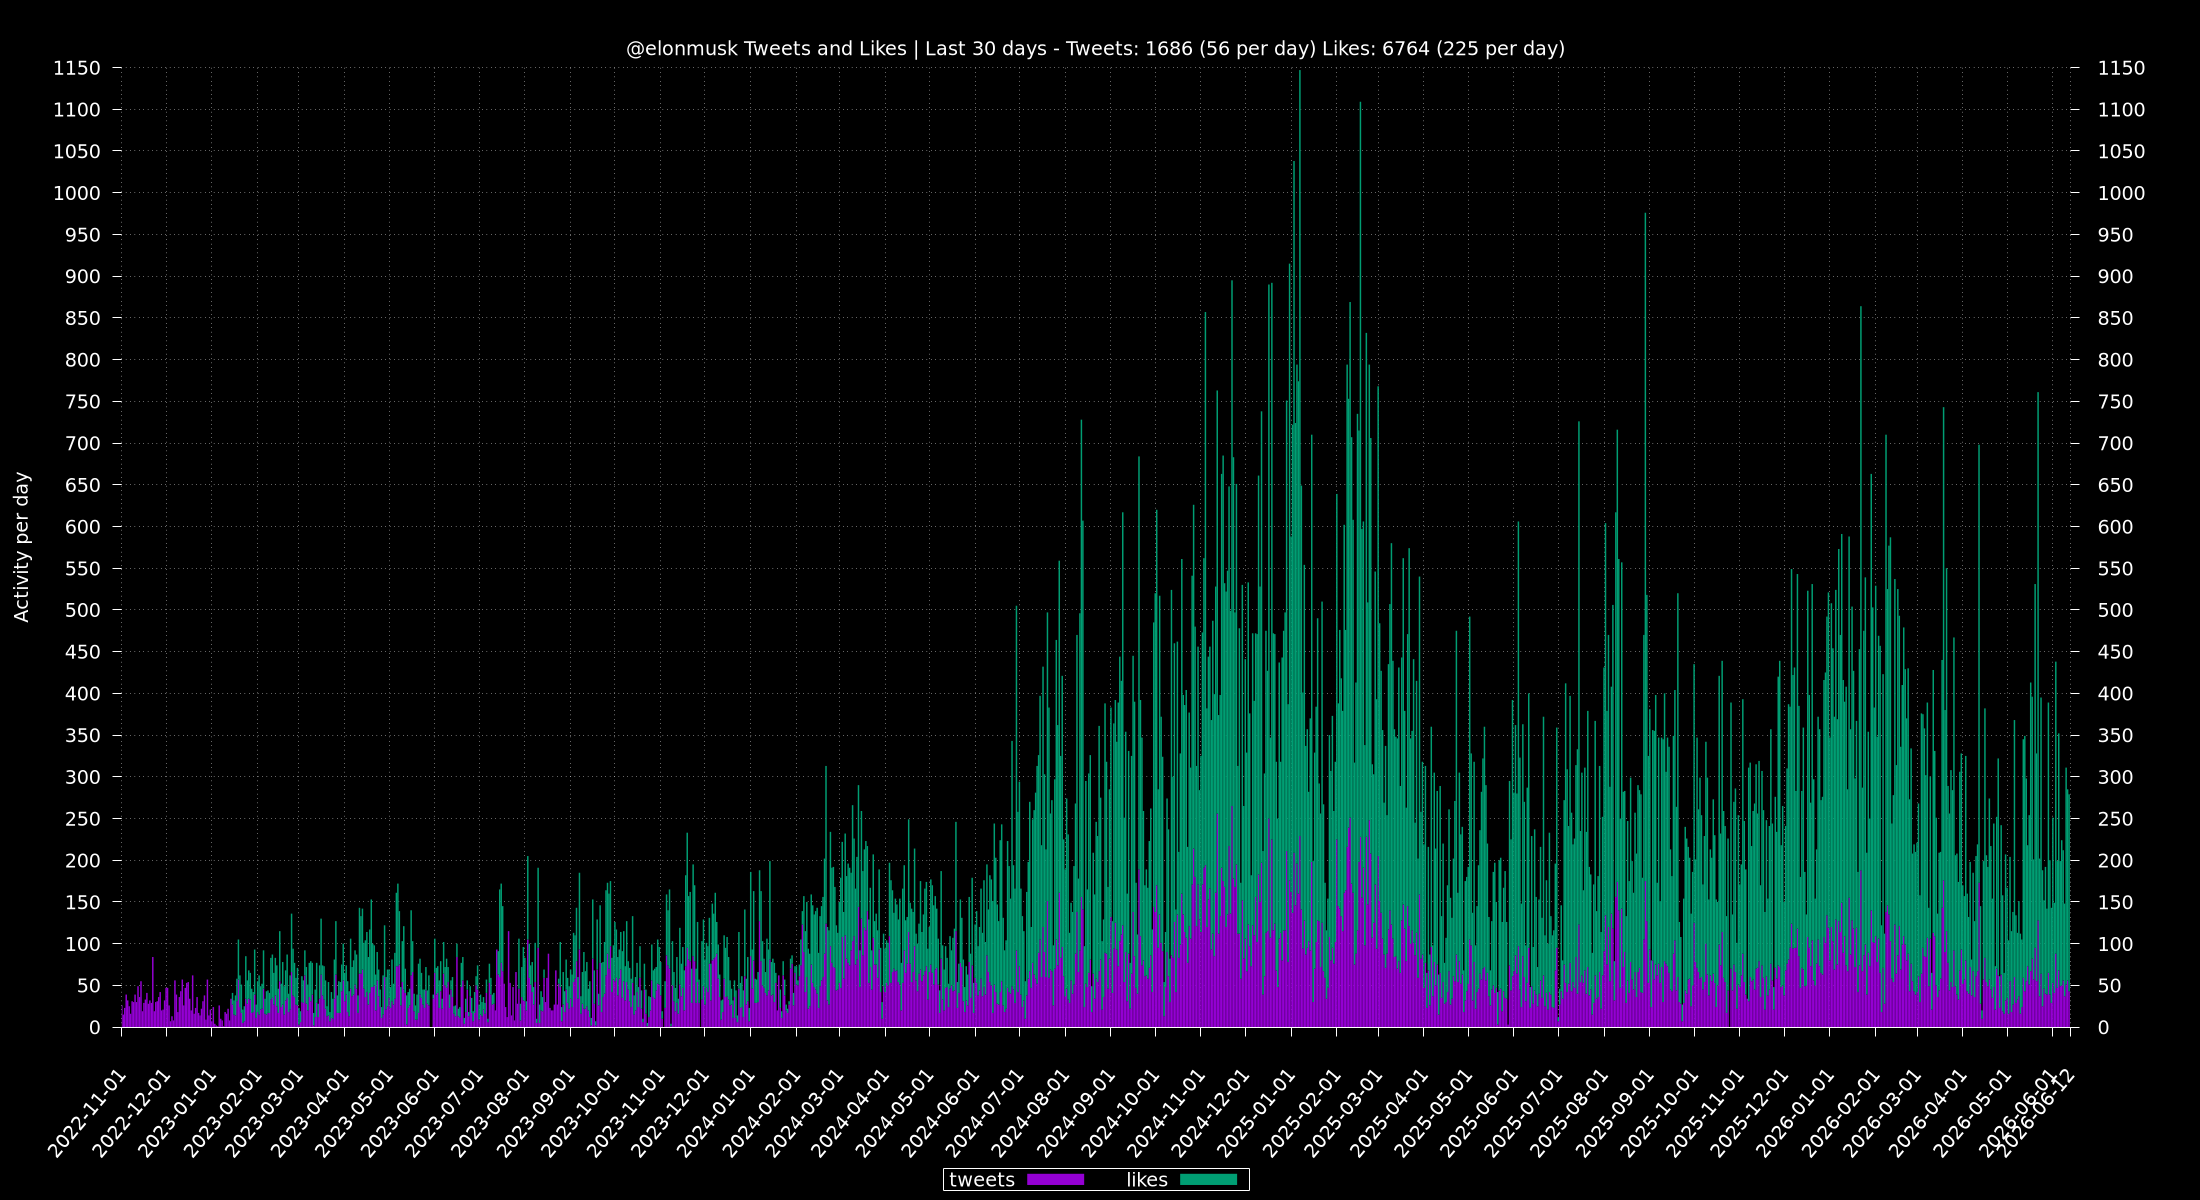
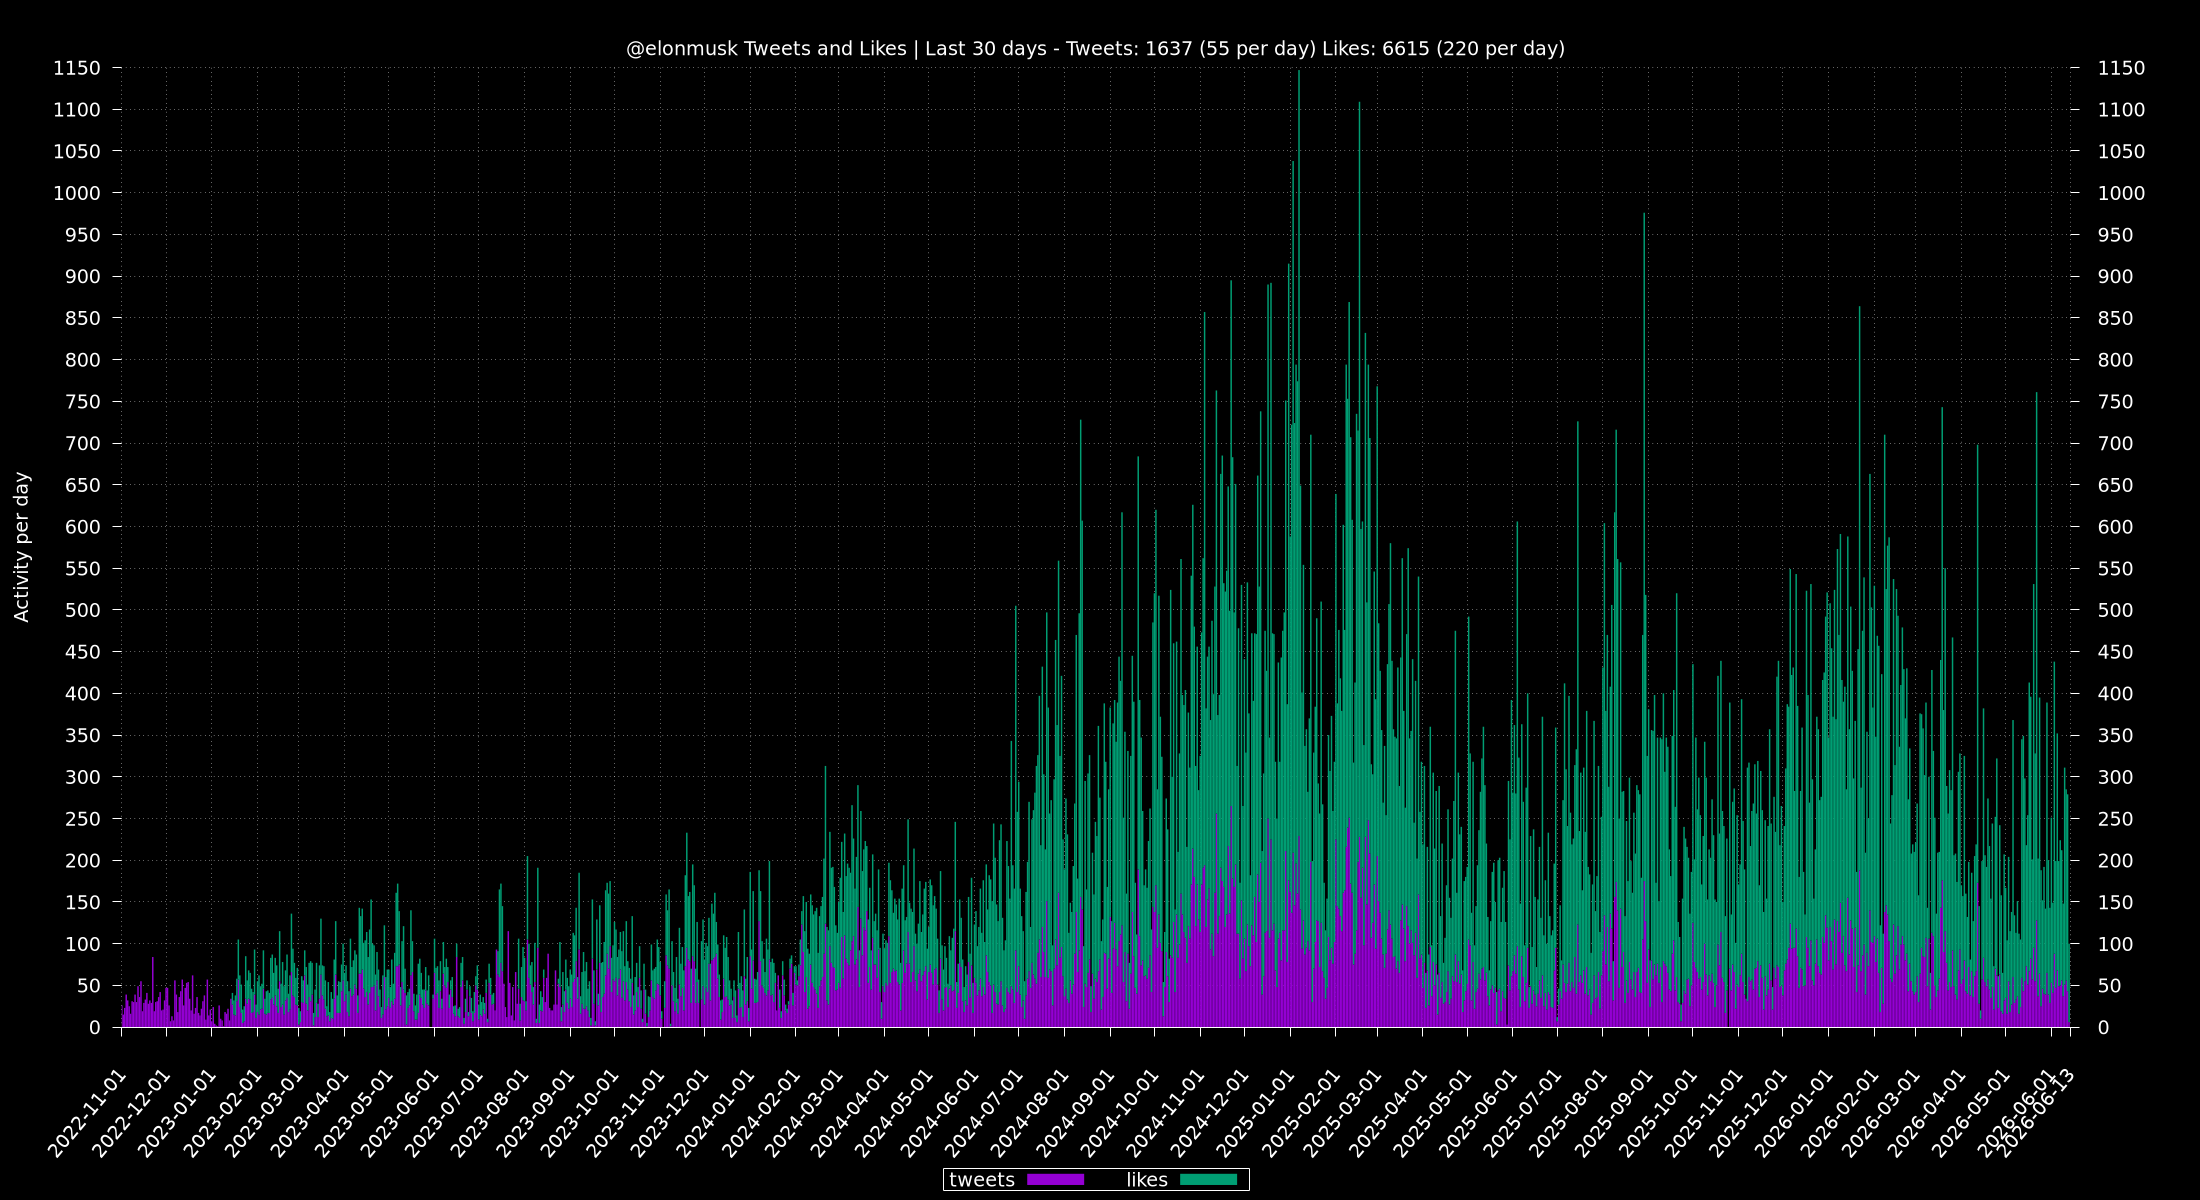
update via cron

Changed region(s): [[0.1545, 0.2467, 0.9582, 0.8633], [0.1236, 0.8942, 0.9273, 0.9558], [0.6182, 0.0308, 0.6491, 0.0617]]

diff --git a/totals/README.md b/totals/README.md
@@ -1,6 +1,6 @@
 ## Last 30 Days
-Tweets: 1729 (56 per day)\
-Likes: 7070 (228 per day)
+Tweets: 1692 (55 per day)\
+Likes: 6858 (221 per day)
 
 ## 24 Hours
 Max: [**341**](../misc/most-tweets_24-hr.csv) - From `2024-11-23 14:29:53 CST` To `2024-11-24 14:28:44 CST`